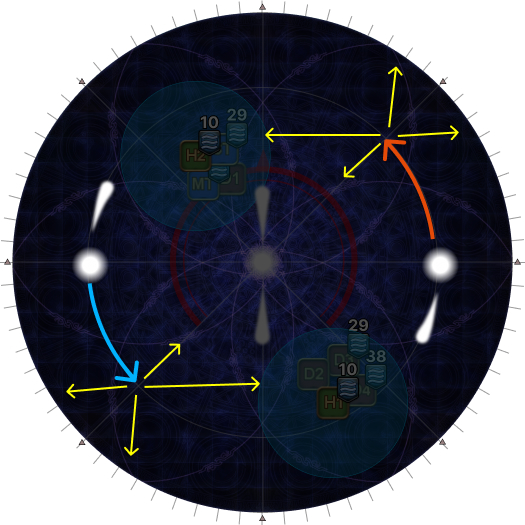
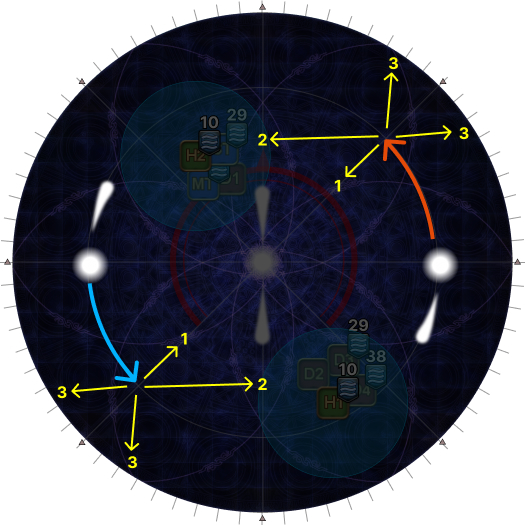
Colour Apocalypse sectors

diff --git a/_ultimates/fru/03_oracle_of_darkness.en.md b/_ultimates/fru/03_oracle_of_darkness.en.md
@@ -480,7 +480,8 @@ a tank).
       <p><b>13.</b> While the Water stacks are resolving, determine your future
       safe spots.</p>
       <p>Start from the outside lights, and look 45 degrees in the <b>opposite
-      direction</b> that the lights are travelling in (green arrows).</p>
+      direction</b> that the lights are travelling in (marked with green 
+      arrows).</p>
       <p>These will be each group's reference points in their half of the
       arena:</p>
       <ul>
@@ -488,15 +489,13 @@ a tank).
         <li><b>S to NE:</b> DPS group (after any swaps).</li>
       </ul>
       <p>From these reference points, there are four more positions to take
-      note of (marked with yellow arrows):</p>
-      <ul>
-        <li>The near position 45 degrees in the opposite direction that the
-        lights are travelling in (towards the center).</li>
-        <li>The near position <em>another</em> 45 degrees in the opposite
-        direction that the lights are travelling in.</li>
+      note of:</p>
+      <ol>
+        <li>The near position (towards the center).</li>
+        <li>The near position <em>another</em> 45 degrees.</li>
         <li>The two far positions at the edge, 2.5 tick marks on either side of
         the cardinal/intercardinal mark.</li>
-      </ul>
+      </ol>
       <p>These will be your spread positions later.</p>
       <p><em>(In this example, the lights start N and S and go anti-clockwise,
       so the reference points are NE and SW (clockwise from N/S). Thus, the

diff --git a/_ultimates/fru_mana/03_oracle_of_darkness.en.md b/_ultimates/fru_mana/03_oracle_of_darkness.en.md
@@ -563,12 +563,12 @@ a tank).
       the <b>opposite direction</b> that the lights are travelling in.</p>
       <p>From these reference points, there are four more positions to take
       note of (marked with yellow arrows):</p>
-      <ul>
+      <ol>
         <li>The near position (towards the center).</li>
         <li>The near position <em>another</em> 45 degrees.</li>
         <li>The two far positions at the edge, 2.5 tick marks on either side of
         the cardinal/intercardinal mark.</li>
-      </ul>
+      </ol>
       <p>These will be your spread positions later.</p>
       <p><em>(In this example, the lights start W and E and go clockwise, so
       the "base T/H" group references W, and the "base DPS" group references
